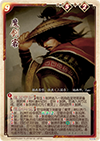
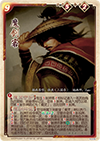
skill update for JNH0701 and JNH2001

Changed region(s): [[0.12, 0.6809, 0.9, 0.766], [0.33, 0.7943, 0.63, 0.8511], [0.72, 0.7943, 0.9, 0.8511]]

diff --git a/PSDGamepkg/JNS/FG04.cs b/PSDGamepkg/JNS/FG04.cs
@@ -896,6 +896,13 @@ namespace PSD.PSDGamepkg.JNS
                 if (ght1 != null)
                 {
                     ght1.TeamBursted = true;
+                    XI.RaiseGMessage(new Artiad.HarvestPet()
+                    {
+                        Farmer = player.Uid,
+                        SinglePet = XI.LibTuple.ML.Encode("GHT1"),
+                        Trophy = true,
+                        TreatyAct = Artiad.HarvestPet.Treaty.PASSIVE
+                    }.ToMessage());
                     XI.RaiseGMessage("G0IP," + player.Team + ",3");
                 }
             }
@@ -1643,6 +1650,13 @@ namespace PSD.PSDGamepkg.JNS
                 Monster glt4 = XI.LibTuple.ML.Decode(XI.LibTuple.ML.Encode("GLT4"));
                 if (glt4 != null)
                     glt4.TeamBursted = true;
+                XI.RaiseGMessage(new Artiad.HarvestPet()
+                {
+                    Farmer = player.Uid,
+                    SinglePet = XI.LibTuple.ML.Encode("GLT4"),
+                    Trophy = true,
+                    TreatyAct = Artiad.HarvestPet.Treaty.PASSIVE
+                }.ToMessage());
                 string[] g1ev = fuse.Split(',');
                 XI.InnerGMessage("G1EV," + g1ev[1] + "," + g1ev[2], 201);
             }
@@ -2756,6 +2770,13 @@ namespace PSD.PSDGamepkg.JNS
                 Monster gsh2 = XI.LibTuple.ML.Decode(XI.LibTuple.ML.Encode("GSH2"));
                 if (gsh2 != null)
                     gsh2.TeamBursted = true;
+                XI.RaiseGMessage(new Artiad.HarvestPet()
+                {
+                    Farmer = player.Uid,
+                    SinglePet = XI.LibTuple.ML.Encode("GSH2"),
+                    Trophy = true,
+                    TreatyAct = Artiad.HarvestPet.Treaty.PASSIVE
+                }.ToMessage());
             }
             else if (consumeType == 2)
             {

diff --git a/PSDGamepkg/JNS/HL014.cs b/PSDGamepkg/JNS/HL014.cs
@@ -1179,8 +1179,8 @@ namespace PSD.PSDGamepkg.JNS
 
                 ushort npcUt = ushort.Parse(argst);
                 NPC npc = XI.LibTuple.NL.Decode(NMBLib.OriginalNPC(npcUt));
-                int rest = npc.STR + 1;
-                foreach (ushort ut in XI.Board.OrderedPlayer(player.Uid))
+                int rest = System.Math.Max(npc.STR, player.TokenExcl.Count) + 1;
+                foreach (ushort ut in XI.Board.OrderedPlayer())
                 {
                     Player py = XI.Board.Garden[ut];
                     if (py.IsAlive && py.Team == player.Team && py.Tux.Count > 0)
@@ -3223,11 +3223,18 @@ namespace PSD.PSDGamepkg.JNS
             if (!player.RFM.GetBool("InJNH2002"))
             {
                 if (type == 0) // ZB
-                    return Artiad.ClothingHelper.GetWho(fuse) != 0;
+                {
+                    ushort who = Artiad.ClothingHelper.GetWho(fuse);
+                    return who != 0 && who != player.Uid;
+                }
                 else if (type == 1) // HD
-                    return true;
+                    return Artiad.ObtainPet.Parse(fuse).Farmer != player.Uid;
                 else if (type == 2) // IF
-                    return true;
+                {
+                    string[] g0ifs = fuse.Split(',');
+                    ushort who = ushort.Parse(g0ifs[1]);
+                    return who != player.Uid;
+                }
             }
             return false;
         }

diff --git a/PSDGamepkg/JNS/TR007.cs b/PSDGamepkg/JNS/TR007.cs
@@ -204,6 +204,7 @@ namespace PSD.PSDGamepkg.JNS
                 SinglePet = pt,
                 TreatyAct = Artiad.HarvestPet.Treaty.PASSIVE
             }.ToMessage());
+            XI.RaiseGMessage("G0DH," + player.Uid + ",0,2");
         }
         public string JNT0302Input(Player player, int type, string fuse, string prev)
         {
